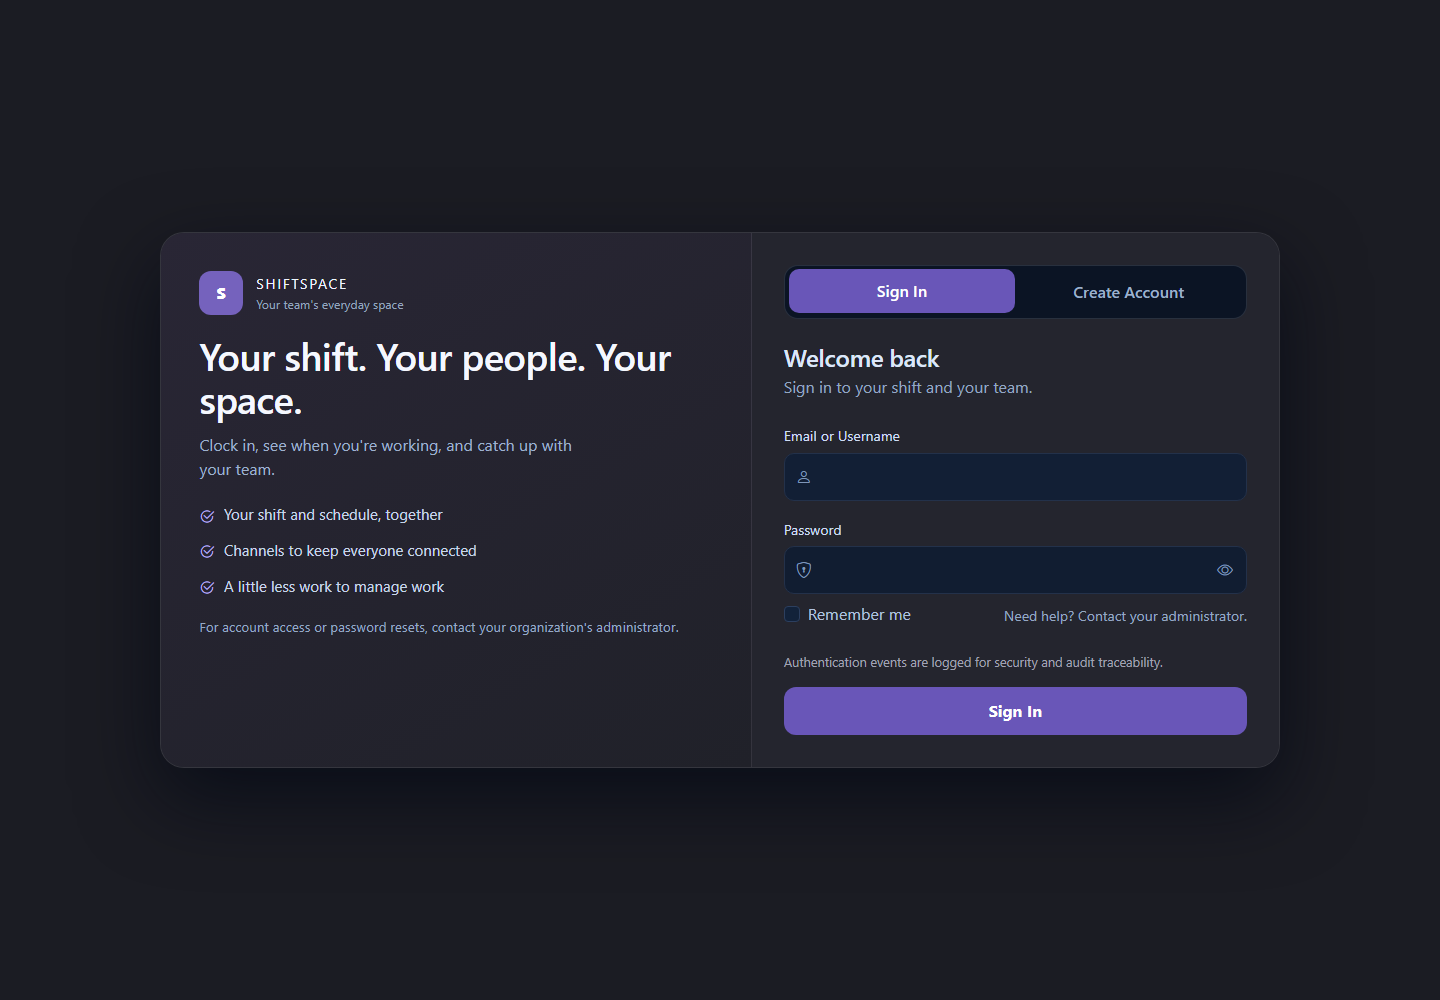
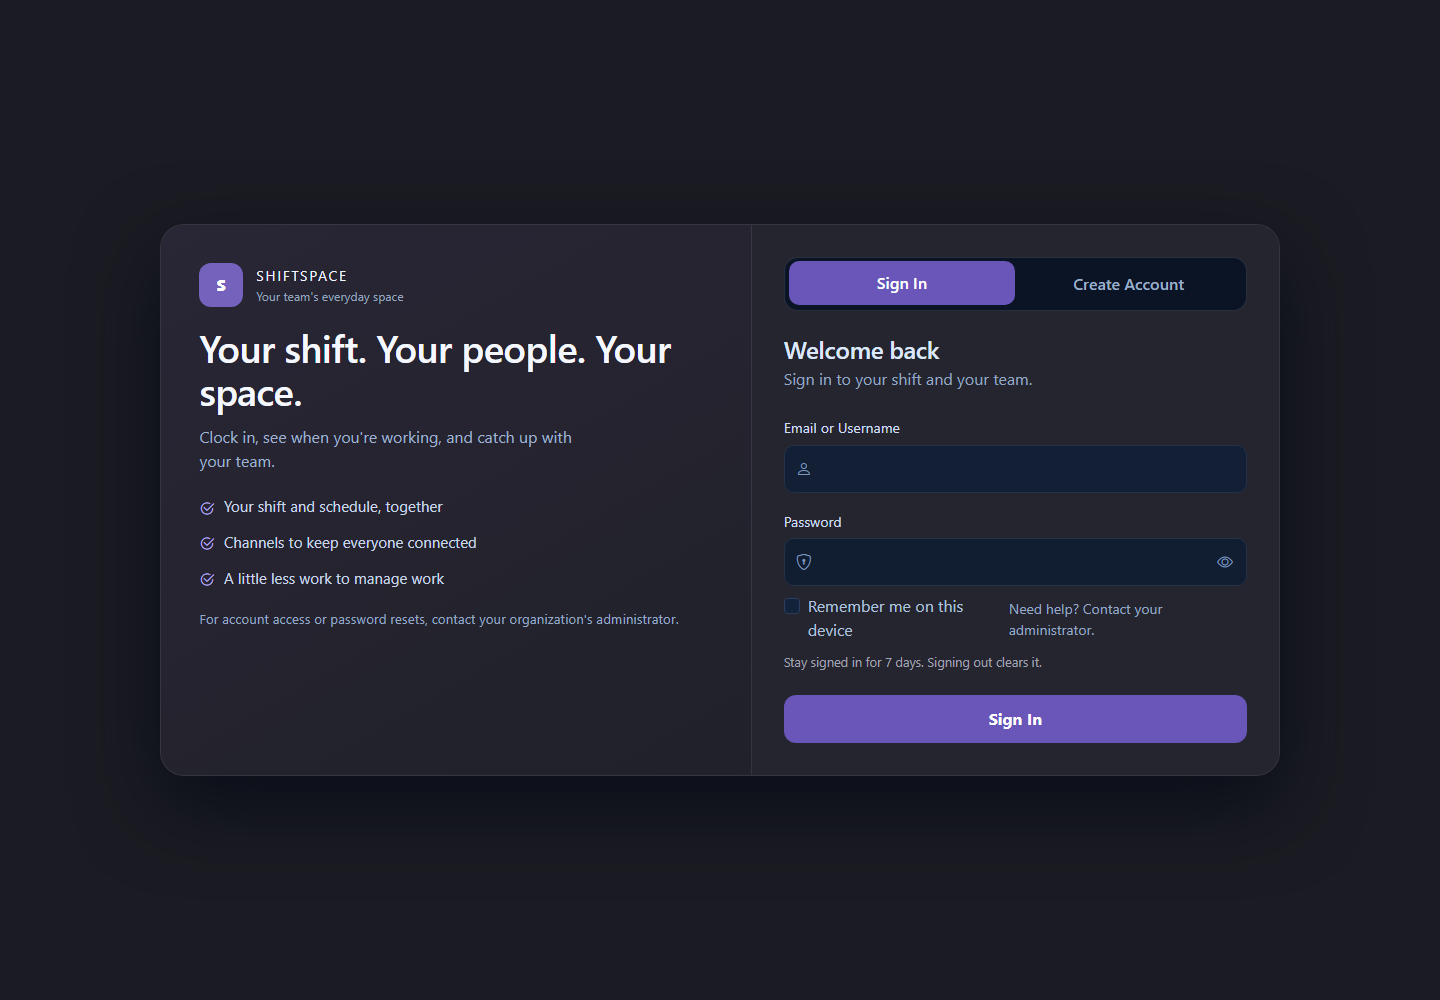
Fix remembered sign-in, use browser sessions by default, and clear cookies on sign-out

diff --git a/app/templates/login.html b/app/templates/login.html
@@ -57,15 +57,15 @@
           </div>
         </div>
 
-        <div class="d-flex justify-content-between align-items-center mb-4 auth-meta-row">
+        <div class="d-flex justify-content-between align-items-center mb-2 auth-meta-row">
           <div class="form-check">
-            <input class="form-check-input" type="checkbox" value="on" id="remember_me" name="remember_me" />
-            <label class="form-check-label" for="remember_me">Remember me</label>
+            <input class="form-check-input" type="checkbox" value="on" id="remember_me" name="remember_me" aria-describedby="remember-help" {% if request.method == 'POST' and active_tab == 'signin' and request.form.get('remember_me') == 'on' %}checked{% endif %} />
+            <label class="form-check-label" for="remember_me">Remember me on this device</label>
           </div>
           <span class="small text-muted">Need help? Contact your administrator.</span>
         </div>
 
-        <p class="helper-copy mb-3">Authentication events are logged for security and audit traceability.</p>
+        <p id="remember-help" class="helper-copy mb-4">Stay signed in for 7 days. Signing out clears it.</p>
 
         <button type="submit" class="btn auth-cta w-100" id="loginSubmit">Sign In</button>
       </form>

diff --git a/scripts/browser_smoke.py b/scripts/browser_smoke.py
@@ -8,6 +8,7 @@ import threading
 from datetime import date, datetime, timedelta
 from io import BytesIO
 from pathlib import Path
+from time import time
 from zoneinfo import ZoneInfo
 
 from flask_migrate import upgrade
@@ -36,6 +37,8 @@ def main():
             SQLALCHEMY_DATABASE_URI = f"sqlite:///{Path(directory).as_posix()}/browser.db"
             RATELIMIT_ENABLED = False
             PERMANENT_SESSION_LIFETIME = timedelta(minutes=30)
+            REMEMBER_COOKIE_DURATION = timedelta(days=7)
+            REMEMBER_COOKIE_SAMESITE = "Lax"
             PUBLIC_REGISTRATION = True
             WORKFORCE_TIMEZONE = "America/New_York"
 
@@ -78,10 +81,26 @@ def main():
                 capture(page, "login")
                 page.get_by_label("Email or Username").fill("demo.employee")
                 page.get_by_label("Password", exact=True).first.fill(credentials["demo.employee"])
+                page.get_by_label("Remember me on this device", exact=True).check()
                 page.get_by_role("button", name="Sign In", exact=True).click()
                 expect(page).to_have_url(origin + "/employee/dashboard")
                 capture(page, "employee-workspace")
                 completed.append("Employee sign-in with CSRF")
+                remembered = [
+                    cookie
+                    for cookie in page.context.cookies()
+                    if cookie["name"] == "remember_token"
+                ]
+                assert len(remembered) == 1
+                assert remembered[0]["httpOnly"] and remembered[0]["sameSite"] == "Lax"
+                assert 604790 < remembered[0]["expires"] - time() <= 604800
+                resumed_context = browser.new_context()
+                resumed_context.add_cookies(remembered)
+                resumed = resumed_context.new_page()
+                resumed.on("pageerror", lambda error: browser_errors.append(str(error)))
+                assert resumed.goto(origin + "/employee/dashboard").status == 200
+                expect(resumed.get_by_role("region", name="Your shift")).to_be_visible()
+                resumed_context.close()
 
                 page.get_by_role("region", name="Your shift").get_by_role(
                     "button", name="Clock in", exact=True
@@ -112,10 +131,31 @@ def main():
 
                 page.get_by_role("button", name="Sign out", exact=True).click()
                 expect(page).to_have_url(origin + "/login")
+                assert not any(
+                    cookie["name"] == "remember_token" for cookie in page.context.cookies()
+                )
+                page.goto(origin + "/employee/dashboard")
+                expect(page).to_have_url(origin + "/login?next=/employee/dashboard?")
+                expect(
+                    page.get_by_label("Remember me on this device", exact=True)
+                ).not_to_be_checked()
+                completed.append(
+                    "Seven-day remembered sign-in restores a new browser session; sign-out clears it"
+                )
+                page.goto(origin + "/login")
                 page.get_by_label("Email or Username").fill("demo.admin")
                 page.get_by_label("Password", exact=True).first.fill(credentials["demo.admin"])
                 page.get_by_role("button", name="Sign In", exact=True).click()
                 expect(page).to_have_url(origin + "/dashboard")
+                assert not any(
+                    cookie["name"] == "remember_token" for cookie in page.context.cookies()
+                )
+                assert (
+                    next(
+                        cookie for cookie in page.context.cookies() if cookie["name"] == "session"
+                    )["expires"]
+                    == -1
+                )
                 capture(page, "dashboard")
                 page.get_by_role("region", name="Your shift").get_by_role(
                     "button", name="Clock in", exact=True

diff --git a/tests/test_remember_login.py b/tests/test_remember_login.py
@@ -1,0 +1,91 @@
+from datetime import datetime, timedelta, timezone
+
+import pytest
+from conftest import TEST_PASSWORD
+
+from app.extensions import db
+from app.models import Employee
+from config import Config
+
+
+@pytest.fixture(autouse=True)
+def cookie_settings(app):
+    app.config.update(
+        REMEMBER_COOKIE_DURATION=Config.REMEMBER_COOKIE_DURATION,
+        REMEMBER_COOKIE_HTTPONLY=Config.REMEMBER_COOKIE_HTTPONLY,
+        REMEMBER_COOKIE_SAMESITE=Config.REMEMBER_COOKIE_SAMESITE,
+        PERMANENT_SESSION_LIFETIME=Config.PERMANENT_SESSION_LIFETIME,
+    )
+
+
+def signin(client, remember=False, password=TEST_PASSWORD):
+    return client.post(
+        "/login",
+        data={
+            "username": "employee_user",
+            "password": password,
+            **({"remember_me": "on"} if remember else {}),
+        },
+    )
+
+
+def test_remember_cookie_restores_session_and_logout_removes_it(client, users):
+    assert signin(client, remember=True).status_code == 302
+    cookie = client.get_cookie("remember_token")
+    assert cookie is not None and cookie.http_only and cookie.same_site == "Lax"
+    assert (
+        timedelta(days=7) - timedelta(seconds=5)
+        < (cookie.expires - datetime.now(timezone.utc))
+        <= timedelta(days=7)
+    )
+    client.delete_cookie("session")
+    assert client.get("/employee/dashboard").status_code == 200
+    assert client.post("/logout").status_code == 302
+    assert client.get_cookie("remember_token") is None
+    client.delete_cookie("session")
+    assert client.get("/employee/dashboard").status_code == 302
+
+
+def test_without_remember_uses_a_browser_session(client, users):
+    assert signin(client).status_code == 302
+    assert client.get_cookie("remember_token") is None
+    assert client.get_cookie("session").expires is None
+    client.delete_cookie("session")
+    assert client.get("/employee/dashboard").status_code == 302
+
+
+def test_failed_signin_does_not_issue_remember_cookie(client, users):
+    response = signin(client, remember=True, password="incorrect")
+    assert response.status_code == 200
+    assert client.get_cookie("remember_token") is None
+    assert b'aria-describedby="remember-help" checked' in response.data
+    assert client.get("/employee/dashboard").status_code == 302
+
+
+def test_tampered_remember_cookie_does_not_authenticate(client, users):
+    signin(client, remember=True)
+    cookie = client.get_cookie("remember_token")
+    client.delete_cookie("session")
+    client.set_cookie("remember_token", cookie.value + "tampered")
+    assert client.get("/employee/dashboard").status_code == 302
+
+
+def test_archived_employee_cannot_return_with_remember_cookie(client, app, users):
+    signin(client, remember=True)
+    client.delete_cookie("session")
+    with app.app_context():
+        db.session.get(Employee, users["employee_profile_id"]).archived = True
+        db.session.commit()
+    assert client.get("/employee/dashboard").status_code == 302
+
+
+def test_remember_cookie_uses_secure_flag_over_https(client, app, users):
+    app.config.update(REMEMBER_COOKIE_SECURE=True, SESSION_COOKIE_SECURE=True)
+    response = client.post(
+        "/login",
+        base_url="https://localhost",
+        data={"username": "employee_user", "password": TEST_PASSWORD, "remember_me": "on"},
+    )
+    assert response.status_code == 302
+    assert client.get_cookie("remember_token").secure
+    assert client.get_cookie("session").secure

diff --git a/app/routes/auth.py b/app/routes/auth.py
@@ -185,7 +185,7 @@ def login():
             db.session.commit()
         else:
             session.clear()
-            session.permanent = True
+            session.permanent = remember_me
             login_user(user, remember=remember_me)
             create_audit_log(
                 user, "login_success", "User", str(user.id), f"{user.username} logged in."
@@ -207,7 +207,8 @@ def logout():
         current_user, "logout", "User", str(current_user.id), f"{current_user.username} logged out."
     )
     db.session.commit()
-    logout_user()
     session.clear()
+    # Keep Flask-Login's remember-cookie deletion flag until after_request runs.
+    logout_user()
     flash("You have been logged out.", "success")
     return redirect(url_for("auth.login"))

diff --git a/docs/VERIFICATION.md b/docs/VERIFICATION.md
@@ -1,12 +1,12 @@
 # Verification record
 
-Local verification, including the emoji-picker follow-up, was completed on October 13, 2026, on Windows with Python 3.12 and a `.venv-verify` environment installed from `requirements-dev.txt`. Automated workflows used disposable databases and generated demo/test credentials. The user's synthetic local demo was backed up, its migration tested on a copy, then upgraded to `0004_channels` with writers stopped. Its existing records and account passwords were preserved. The original `employee_mgmt.db` remained unchanged.
+Local verification, including the emoji-picker and remembered-sign-in follow-ups, was completed on October 13, 2026, on Windows with Python 3.12 and a `.venv-verify` environment installed from `requirements-dev.txt`. Automated workflows used disposable databases and generated demo/test credentials. The user's synthetic local demo was backed up, its migration tested on a copy, then upgraded to `0004_channels` with writers stopped. Its existing records and account passwords were preserved. The original `employee_mgmt.db` remained unchanged.
 
 | Check | Executed result |
 |---|---|
-| `python -m pytest -q` | **156 passed, 0 failed**, 139.99 seconds after the searchable emoji-picker update |
+| `python -m pytest -q` | **162 passed, 0 failed**, 102.88 seconds after the remembered-sign-in update; four dependency deprecation warnings from Flask-Login cookie expiry |
 | Ruff lint | All checks passed |
-| Ruff formatting | 50 Python files passed the format check |
+| Ruff formatting | 45 Python files passed the scoped format check |
 | Bandit, application/config/startup | 0 unsuppressed findings; two B105 annotations identify validation messages mistaken for password literals |
 | `pip-audit -r requirements.txt` | 27 resolved runtime packages, 0 known vulnerabilities at the time of the audit |
 | Dependency installation / `pip check` | Clean environment installation and dependency consistency passed |
@@ -14,7 +14,7 @@ Local verification, including the emoji-picker follow-up, was completed on Octob
 | Historical exposure review | Five original commits contain sensitive environment/database artifacts; history is unchanged |
 | Documented fresh setup | Environment generation, migrations, demo seeding, localhost startup, and HTTP 200 login page passed in a clean temporary directory |
 | Disposable original-database migration | All original values and rows in eight tables preserved; foreign-key check passed; original file hash unchanged |
-| Chromium browser verification | Fourteen workflow checks passed, 0 browser errors; 24 real screenshots captured |
+| Chromium browser verification | Fifteen workflow checks passed, 0 browser errors; 24 real screenshots retained, with the sign-in screenshot refreshed for remembered sign-in |
 | Existing synthetic demo upgrade | Verified backup, successful copy-first migration, all preexisting column values/rows retained, integrity checks passed, and same accounts verified after restart |
 
 The browser script exercised employee login with CSRF, dashboard clock-in/out for both employee and administrator accounts, persisted shift status after reload, attendance history, leave submission, POST logout, administrator login, employee creation/search/edit/profile, cross-day overtime and payroll approval, leave approval, inbox/audit pages, and CSV/PDF downloads. New workflows enter Manage workplace, add a missed shift, correct it with an audit reason, publish a dated schedule, verify employee visibility, and exchange chat replies across separate signed-in browser sessions with automatic polling. Mobile home, directory, payroll, schedule, chat, and management were checked for page overflow. Screenshots use synthetic records only.
@@ -30,6 +30,8 @@ Fifteen channel/picture regressions verify administrator/executive channel creat
 The browser also creates #shift-swaps through the admin UI, switches another account into it, previews and shares a picture, verifies the coworker receives and decodes it through polling, reloads to confirm persistence, and verifies the new conversation is absent from #general. Desktop chat fits the viewport; mobile checks cover the channel layout. Real screenshots show the charcoal theme, Shiftspace branding, and simplified Today screen.
 
 The emoji follow-up replaces single-smile insertion with a locally served catalog of all 3,944 fully qualified Unicode 17.0 sequences, category/search controls, skin tones (including all mixed-tone variations), and native device rendering. Chromium verified caret-preserving insertion, selected skin tones, newer iPhone emoji search, cross-account delivery and persistence, Enter/arrow/Escape behavior, the 2,000-character composer limit, and mobile width. The existing running demo was restarted without reseeding or migration and independently checked for picker loading, newer-emoji search, and draft insertion without sending a message or changing records. Apple fonts and artwork are not bundled; glyph appearance and support depend on the user's installed OS. The source and license are linked in the README.
+
+Six remembered-sign-in regressions verify seven-day cookie expiry and HttpOnly/SameSite protections, browser-session behavior when unchecked, restoration without the session cookie, sign-out deletion, failed sign-in, tampered cookies, archived accounts, and Secure cookies over HTTPS. Chromium additionally restores access in a separate browser context using only the remember cookie, then verifies sign-out blocks access and unchecked sign-in has no persistent session expiry. The local running demo independently passed the same restoration/sign-out checks and mobile layout review without changing workforce records.
 
 ## Scope and limits
 

diff --git a/README.md b/README.md
@@ -19,6 +19,7 @@ Small teams often track employee details, hours, attendance, and leave in separa
 - Persistent chat channels with authenticated authors, CSRF-protected sending, escaped text, earlier-message loading, and automatic polling across signed-in coworker sessions. Administrators and executives can create channels.
 - Protected picture sharing with previews, validated/normalized uploads, stripped metadata, bounded dimensions/file sizes, and storage covered by SQLite backups.
 - Searchable emoji picker with categories, skin tones, keyboard navigation, and newer iPhone emoji; all 3,944 Unicode 17.0 fully qualified sequences are available.
+- Optional seven-day remembered sign-in on this device; signing out removes its cookie, while unchecked sign-in uses a browser session.
 - Dated schedules with overnight shifts, editing, cancellation that retains history, and employee visibility limited to their own shifts.
 - Manager punch corrections and entirely missed shifts, with required reasons, before/after audit entries, overlap checks, and stale-edit protection.
 - Employee directory with search, department/role/status filters, profiles, editing, and archival that preserves records.
@@ -176,6 +177,8 @@ python -m scripts.browser_smoke
 ```
 
 Tests use disposable databases and freshly generated credentials. The GitHub Actions workflow runs these checks on pushes and pull requests. Local verification results and scope are recorded in [verification notes](docs/VERIFICATION.md); a successful local run does not imply that GitHub CI or a production deployment has passed.
+
+On the sign-in page, select **Remember me on this device** to return without signing in again for up to seven days. Leave it unchecked for a browser session. **Sign out** removes the remembered sign-in from that browser. Session expiry still applies; the signed remember cookie restores access while it remains valid. Archived accounts cannot use it. Cookies are HttpOnly and SameSite=Lax, with Secure required in production. This behavior uses [Flask-Login's remember-cookie support](https://flask-login.readthedocs.io/en/latest/#remember-me).
 
 ## Screenshots
 

diff --git a/docs/SECURITY.md b/docs/SECURITY.md
@@ -28,6 +28,7 @@ The current local `.env` is intentionally preserved and may still contain expose
 - POST-only logout, safe local redirects, bounded input sizes, finite decimal validation, department/reference checks, and generic conflict/server errors.
 - Ten login attempts per minute and ten registrations per hour per remote address. Local memory storage is for development; production requires shared storage. Reverse-proxy address handling must be configured for the actual trusted proxy topology before deployment.
 - HttpOnly/SameSite session and remember cookies; secure cookies, HSTS, and debug-disabled validation in production.
+- Remembered sign-in is opt-in for seven days. Unchecked sign-in uses a browser-session cookie; POST sign-out removes the remember cookie as well as authentication state. Cookie restoration still passes the active-account check. Password resets require the documented secret rotation to invalidate existing signed cookies.
 - Route-level roles, employee ownership checks, private inbox reads/mutations, archived-account denial, and payroll/leave self-review denial.
 - SQLite foreign keys, daily payroll uniqueness, active-shift uniqueness, leave overlap triggers, and optimistic payroll/leave versions to reject stale writes.
 - Escaped Jinja output, local frontend assets, frame denial, MIME-sniffing protection, no-store authenticated responses, and a CSP restricting external resources and form destinations.
